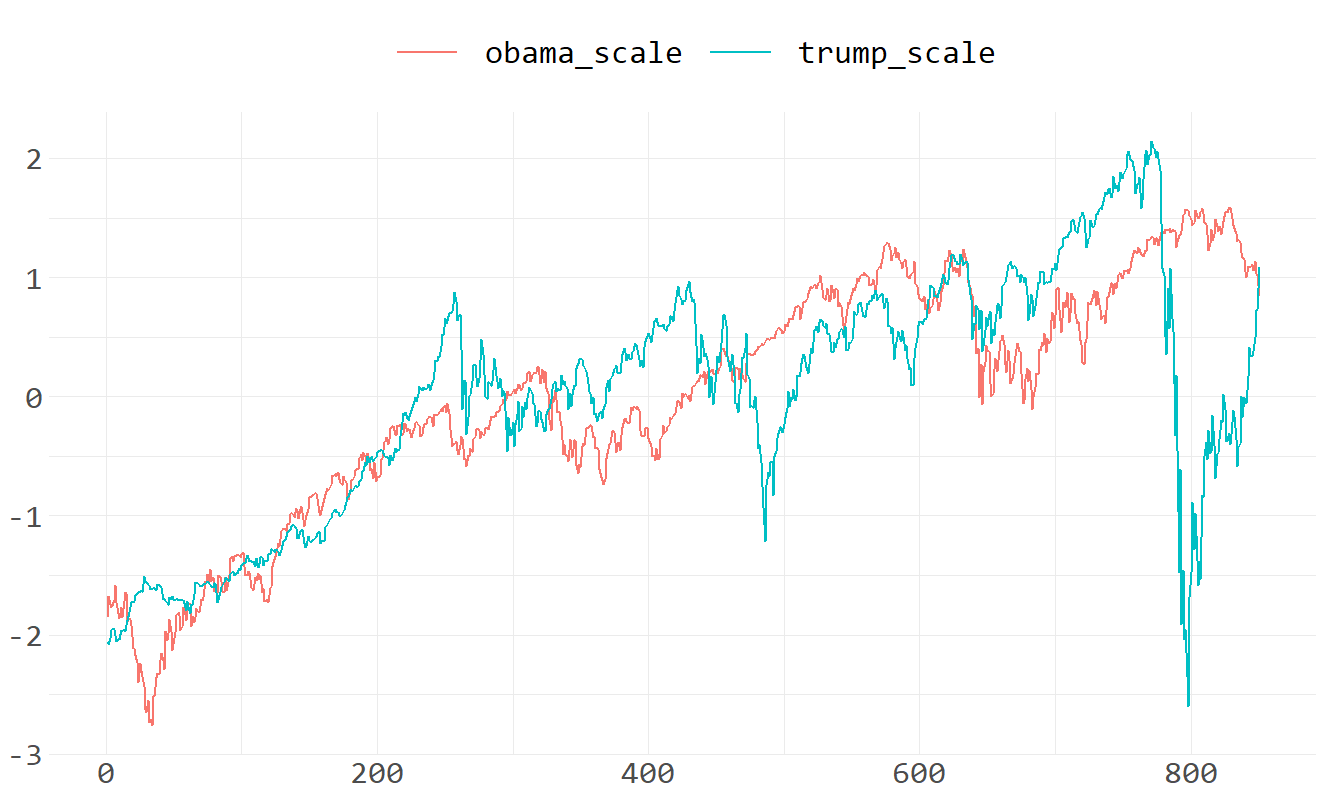
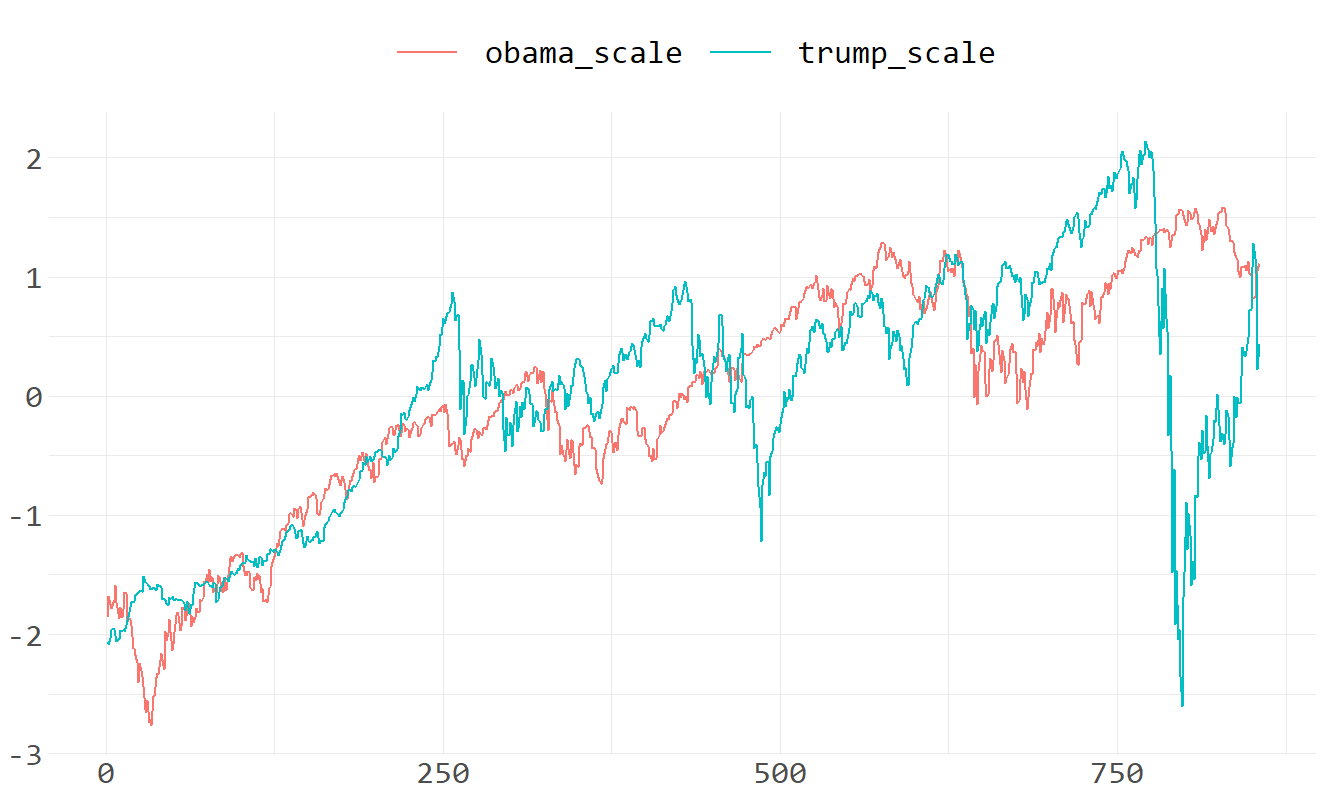
Add files via upload

diff --git a/thedowjonesindustrialaverage.md b/thedowjonesindustrialaverage.md
@@ -1,7 +1,7 @@
 The Dow Jones Industrial Average
 ================
 <https://am-consulting.co.jp> , <https://twitter.com/amc_corporation>
-2020-06-06 10:30:51 JST
+2020-06-13 10:13:36 JST
 
     $quantmod
     [1]  0  4 17
@@ -56,12 +56,12 @@ tail(dji0)
 
 ``` 
            Date DJI.Open DJI.High  DJI.Low DJI.Close DJI.Volume DJI.Adjusted
-3375 2020-05-29 25324.15 25482.80 25031.67  25383.11  527620000     25383.11
-3376 2020-06-01 25342.99 25508.83 25220.66  25475.02  338310000     25475.02
-3377 2020-06-02 25582.52 25743.13 25523.74  25742.65  352610000     25742.65
-3378 2020-06-03 25906.88 26337.75 25906.88  26269.89  398790000     26269.89
-3379 2020-06-04 26226.49 26384.10 26082.31  26281.82  372190000     26281.82
 3380 2020-06-05 26836.80 27338.30 26836.80  27110.98  542310000     27110.98
+3381 2020-06-08 27232.93 27580.21 27232.48  27572.44  430200000     27572.44
+3382 2020-06-09 27447.37 27447.37 27151.06  27272.30  381430000     27272.30
+3383 2020-06-10 27251.89 27355.22 26938.05  26989.99  448930000     26989.99
+3384 2020-06-11 26282.51 26294.08 25082.72  25128.17  647780000     25128.17
+3385 2020-06-12 25659.42 25965.55 25078.41  25605.54  514440000     25605.54
 ```
 
 ## Adjusted price
@@ -73,12 +73,12 @@ tail(dji)
 
 ``` 
            Date DJI.Adjusted
-3375 2020-05-29     25383.11
-3376 2020-06-01     25475.02
-3377 2020-06-02     25742.65
-3378 2020-06-03     26269.89
-3379 2020-06-04     26281.82
 3380 2020-06-05     27110.98
+3381 2020-06-08     27572.44
+3382 2020-06-09     27272.30
+3383 2020-06-10     26989.99
+3384 2020-06-11     25128.17
+3385 2020-06-12     25605.54
 ```
 
 ## Highest price
@@ -167,14 +167,14 @@ trump %>% {rbind(head(.,1),tail(.,1))}
 ``` 
           Date DJI.Adjusted
 1   2017-01-20     19827.25
-850 2020-06-05     27110.98
+855 2020-06-12     25605.54
 ```
 
 ``` r
 trump[,2] %>% {(tail(.,1)/head(.,1)-1)*100} %>% signif(7) %>% paste0('%')
 ```
 
-    [1] "36.73596%"
+    [1] "29.14317%"
 
 #### Percentage change from November 9, 2016
 
@@ -186,14 +186,14 @@ trump20161109
 ``` 
         Date DJI.Adjusted
 1 2016-11-09     18589.69
-2 2020-06-05     27110.98
+2 2020-06-12     25605.54
 ```
 
 ``` r
 trump20161109[,2] %>% {(tail(.,1)/head(.,1)-1)*100} %>% signif(7) %>% paste0('%')
 ```
 
-    [1] "45.8388%"
+    [1] "37.74054%"
 
 ## Compare difference between Obama and Trump
 
@@ -282,12 +282,12 @@ tail(trump)
 
 ``` 
            Date DJI.Adjusted change up down even
-3375 2020-05-29     25383.11  -0.07  0    1    0
-3376 2020-06-01     25475.02   0.36  1    0    0
-3377 2020-06-02     25742.65   1.05  1    0    0
-3378 2020-06-03     26269.89   2.05  1    0    0
-3379 2020-06-04     26281.82   0.05  1    0    0
 3380 2020-06-05     27110.98   3.15  1    0    0
+3381 2020-06-08     27572.44   1.70  1    0    0
+3382 2020-06-09     27272.30  -1.09  0    1    0
+3383 2020-06-10     26989.99  -1.04  0    1    0
+3384 2020-06-11     25128.17  -6.90  0    1    0
+3385 2020-06-12     25605.54   1.90  1    0    0
 ```
 
 ###### Highest appreciation rate
@@ -367,8 +367,8 @@ tableObservation
 ``` 
         Up Down Total
 Obama 1080  925  2005
-Trump  473  371   844
-Total 1553 1296  2849
+Trump  475  374   849
+Total 1555 1299  2854
 ```
 
 ``` r
@@ -377,9 +377,9 @@ tableExpectation
 
 ``` 
         Up Down Total
-Obama 1093  912  2005
-Trump  460  384   844
-Total 1553 1296  2849
+Obama 1092  913  2005
+Trump  463  386   849
+Total 1555 1299  2854
 ```
 
 ``` r
@@ -391,8 +391,8 @@ cross_data0
   POTUS Change frequency
 1 Obama     Up      1080
 2 Obama   Down       925
-3 Trump     Up       473
-4 Trump   Down       371
+3 Trump     Up       475
+4 Trump   Down       374
 ```
 
 ``` r
@@ -404,7 +404,7 @@ cross_data
        Change
 POTUS   Down   Up
   Obama  925 1080
-  Trump  371  473
+  Trump  374  475
 ```
 
 ``` r
@@ -416,7 +416,7 @@ chisq.test(cross_data,correct = F)
     Pearson's Chi-squared test
 
 data:  cross_data
-X-squared = 1.1356, df = 1, p-value = 0.2866
+X-squared = 1.0434, df = 1, p-value = 0.307
 ```
 
 -----
